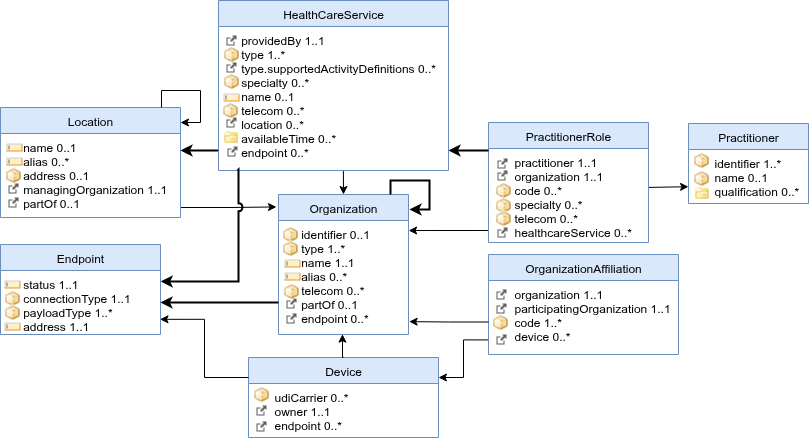
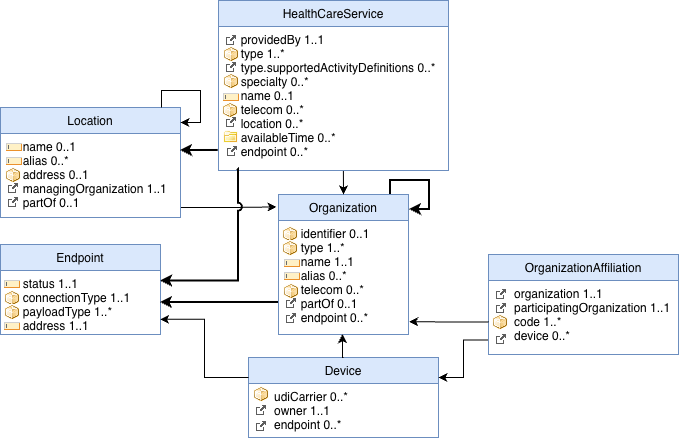
delete of Practitioner and PractitionerRole

diff --git a/input/pagecontent/care-services.md b/input/pagecontent/care-services.md
@@ -28,7 +28,7 @@ Technical design: <a href="GTO adressering v0.9.0.pdf">GTO adressering v0.9.0.pd
 <img src="careservices-overview-transactions.png" width="80%" style="float: none" alt="Overview of transactions in the Care Services Addressing solution."/>
 
 
-This overview implies a decentralized architecture  with local Data Source actors and LRZa Directory replicas. An important central component is the LRZa Administration Directory, but this central component is not a crucial asset at data exchange runtime (only for creating or updating addressable entities). The LRZa Directory periodically imports Organization, Location and Practitioner(-Role) resources from the KvK and DEZI-registry.
+This overview implies a decentralized architecture  with local Data Source actors and LRZa Directory replicas. An important central component is the LRZa Administration Directory, but this central component is not a crucial asset at data exchange runtime (only for creating or updating addressable entities). The LRZa Directory periodically imports Organization and Location resources from the KvK and Dezi-registry.
 
 
 ### National Constraints Compared to IHE mCSD
@@ -50,7 +50,7 @@ Status changes are propagated to local replicas through the `_history` delta (IT
 
 1. Paging and consistent initial load:
 For the initial load (ITI-90-NL `search-type` without search parameters), the LRZa Directory SHALL return results using paging: it SHALL include `Bundle.link` with `relation = next` until all results are returned, and SHALL enforce a maximum page size. The maximum page size is advertised by the server and specified in the LRZa SLA. Update Clients SHALL follow `next` links until exhausted.
-To reduce unresolved references during loading, Update Clients SHOULD load resource types in an order where referenced resources generally precede referencing resources (e.g. `Organization` → `Location` → `HealthcareService` → `Practitioner` → `PractitionerRole` → `Endpoint` → `Device` → `OrganizationAffiliation`). Because the data model contains circular references (e.g. `Organization.endpoint` ↔ `Endpoint.managingOrganization`), no ordering can guarantee that every reference resolves during loading; this is why the order is `SHOULD`, not `SHALL`.
+To reduce unresolved references during loading, Update Clients SHOULD load resource types in an order where referenced resources generally precede referencing resources (e.g. `Organization` → `Location` → `HealthcareService` → `Endpoint` → `Device` → `OrganizationAffiliation`). Because the data model contains circular references (e.g. `Organization.endpoint` ↔ `Endpoint.managingOrganization`), no ordering can guarantee that every reference resolves during loading; this is why the order is `SHOULD`, not `SHALL`.
 Because the paged initial load is not atomic, the Update Client SHALL take the server time reported in `Bundle.meta.lastUpdated` of the first page as the **sync timestamp** — the LRZa server time up to which the replica is in sync — and, once the paged load completes, SHALL perform an incremental `history-type` synchronization (ITI-91-NL) with `_since` set to that sync timestamp. Using the LRZa-reported time avoids client/server clock skew, and this captures mutations made during the load without requiring a server-side point-in-time snapshot. How the Update Client retains the sync timestamp is implementation-defined (e.g. a small stored value, or derived from the replica content); because synchronization is processed idempotently, an inclusive `_since` (re-fetching the boundary resources) is safe.
 
 A Local Replica SHALL accept resources whose references cannot (yet) be resolved and SHALL NOT enforce referential integrity on write during the initial load; without this, replication breaks whenever a delta arrives before the resource it references. A Local Replica SHOULD NOT serve Query Clients until the initial load and the subsequent `_history` catch-up have completed.
@@ -209,31 +209,6 @@ The [NL-GF-Location profile](./StructureDefinition-nl-gf-location.html) is used 
 | partOf → Location | 0..1 | The parent location (e.g. building → floor → room). |
 
 
-#### Practitioner
-Practitioner resources represent healthcare professionals as persons, independent of where or in which role they are currently working. In GF Addressing, a Practitioner is used as the stable identity anchor for professional identification across organizations, and can be linked to one or more PractitionerRole resources that describe context-specific roles and specialties. Practitioner identifiers typically include a DEZI number and MAY include a BIG number for professional registration details.
-The [NL-GF-Practitioner profile](./StructureDefinition-nl-gf-practitioner.html) is used to represent healthcare professionals. Key attributes:
-
-| Attribute | Card. | Description |
-|---|---|---|
-| identifier (DEZI/BIG) | 0..* | Professional identifiers, typically DEZI and optionally BIG. |
-| name | 1..* | Human name of the practitioner. |
-| qualification | 0..* | Professional qualifications, licenses, or registrations relevant for care delivery. |
-
-
-#### PractitionerRole
-PractitionerRole resources are used to define the specific roles, specialties, and responsibilities that a Practitioner holds within an Organization. PractitionerRole enables precise modeling of relationships between practitioners and organizations and MAY represent employment relationships. It supports scenarios like assigning practitioners to departments, specifying their roles (e.g., surgeon, nurse), and linking them to particular healthcare services or locations. A PractitionerRole may have contact details for phone, mail, or direct messaging. Because the directory is publicly queryable, a PractitionerRole SHALL NOT contain data that may not be shared publicly (e.g. personal contact details of an individual that are not intended for public addressing); only information meant to be publicly available for addressing purposes is published.
-The [NL-GF-PractitionerRole profile](./StructureDefinition-nl-gf-practitionerrole.html) is used to represent practitioner roles and responsibilities within organizations. Key attributes:
-
-| Attribute | Card. | Description |
-|---|---|---|
-| identifier (CustodianAssignedIdentifier) | 1..1 | Identifier for provenance and traceability; UZI/DEZI-number |
-| practitioner → Practitioner | 1..1 | The practitioner fulfilling this role, identified by its, e.g., BIG-number. |
-| organization → Organization | 1..1 | The organization where the practitioner works. |
-| code | 1..* | The role(s) the practitioner performs. |
-| specialty | 0..* | The specialty of the practitioner in this role. |
-| telecom | 0..* | Contact details (only information that may be shared publicly for addressing). |
-
-
 #### OrganizationAffiliation
 OrganizationAffiliation resources are used to represent relationships between organizations, such as a software vendor managing the Endpoint that is used by a care provider. The LRZa Directory uses OrganizationAffiliations to authorize incoming create and update interactions of service providers. It could also be used to represent multiple care providers working together under some agreement (e.g. in a region).
 The [NL-GF-OrganizationAffiliation profile](./StructureDefinition-nl-gf-organizationaffiliation.html) is used to represent organizational relationships in this guide. Key attributes:
@@ -321,4 +296,3 @@ The general practice from use case #1 replaces its EHR system and plans a cutove
 ### Roadmap for Care Services
 
 - Security specifications must be aligned with LDN 'veilig netwerk' specifications
-- The data profiles should be added/merged in the NL Core profiles